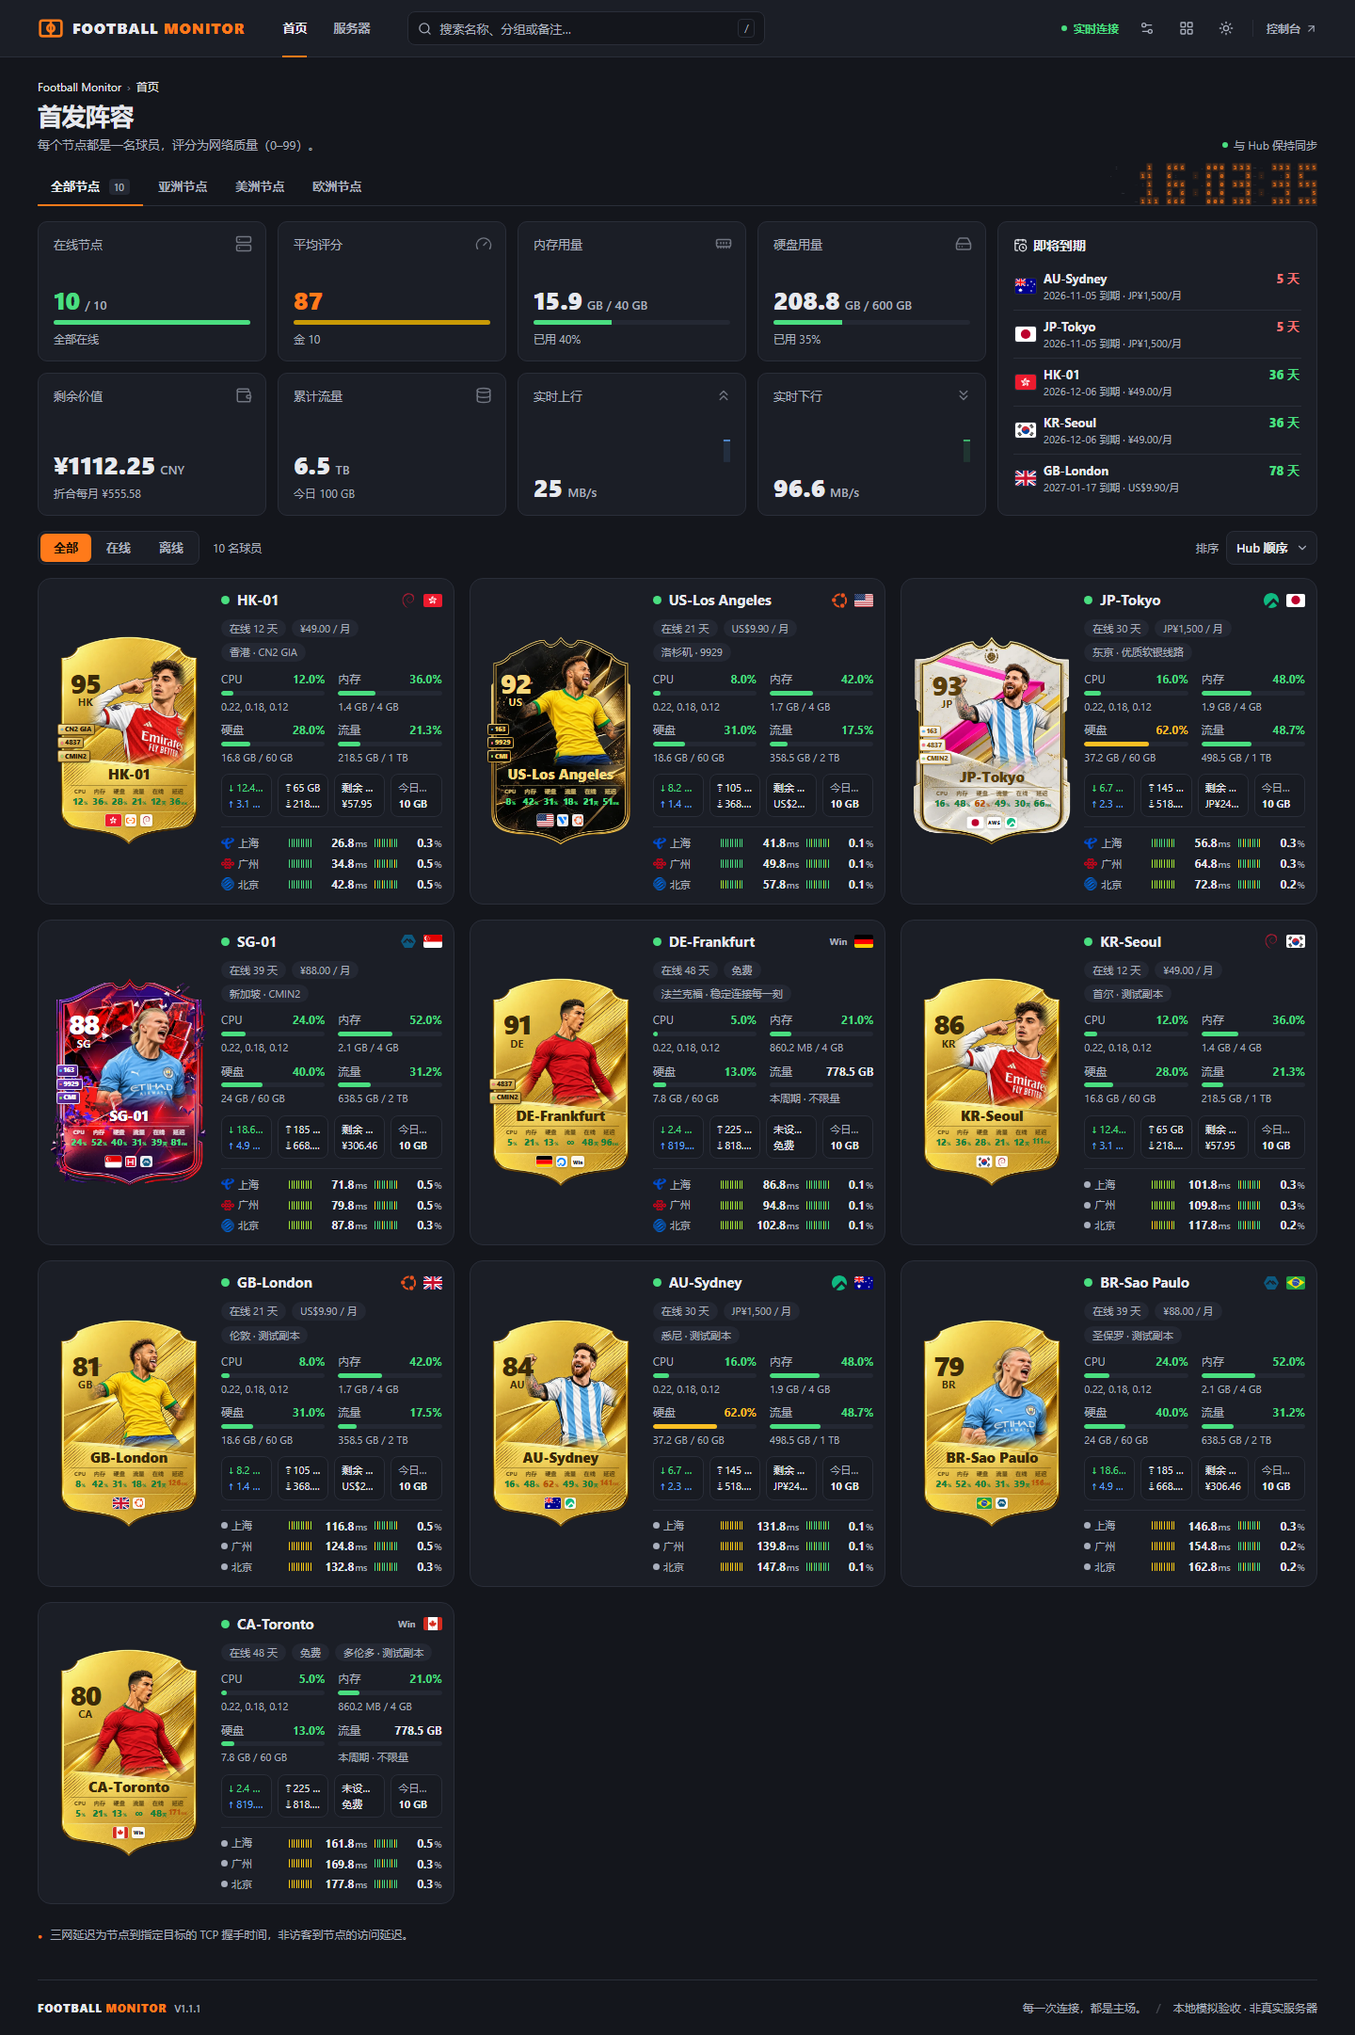
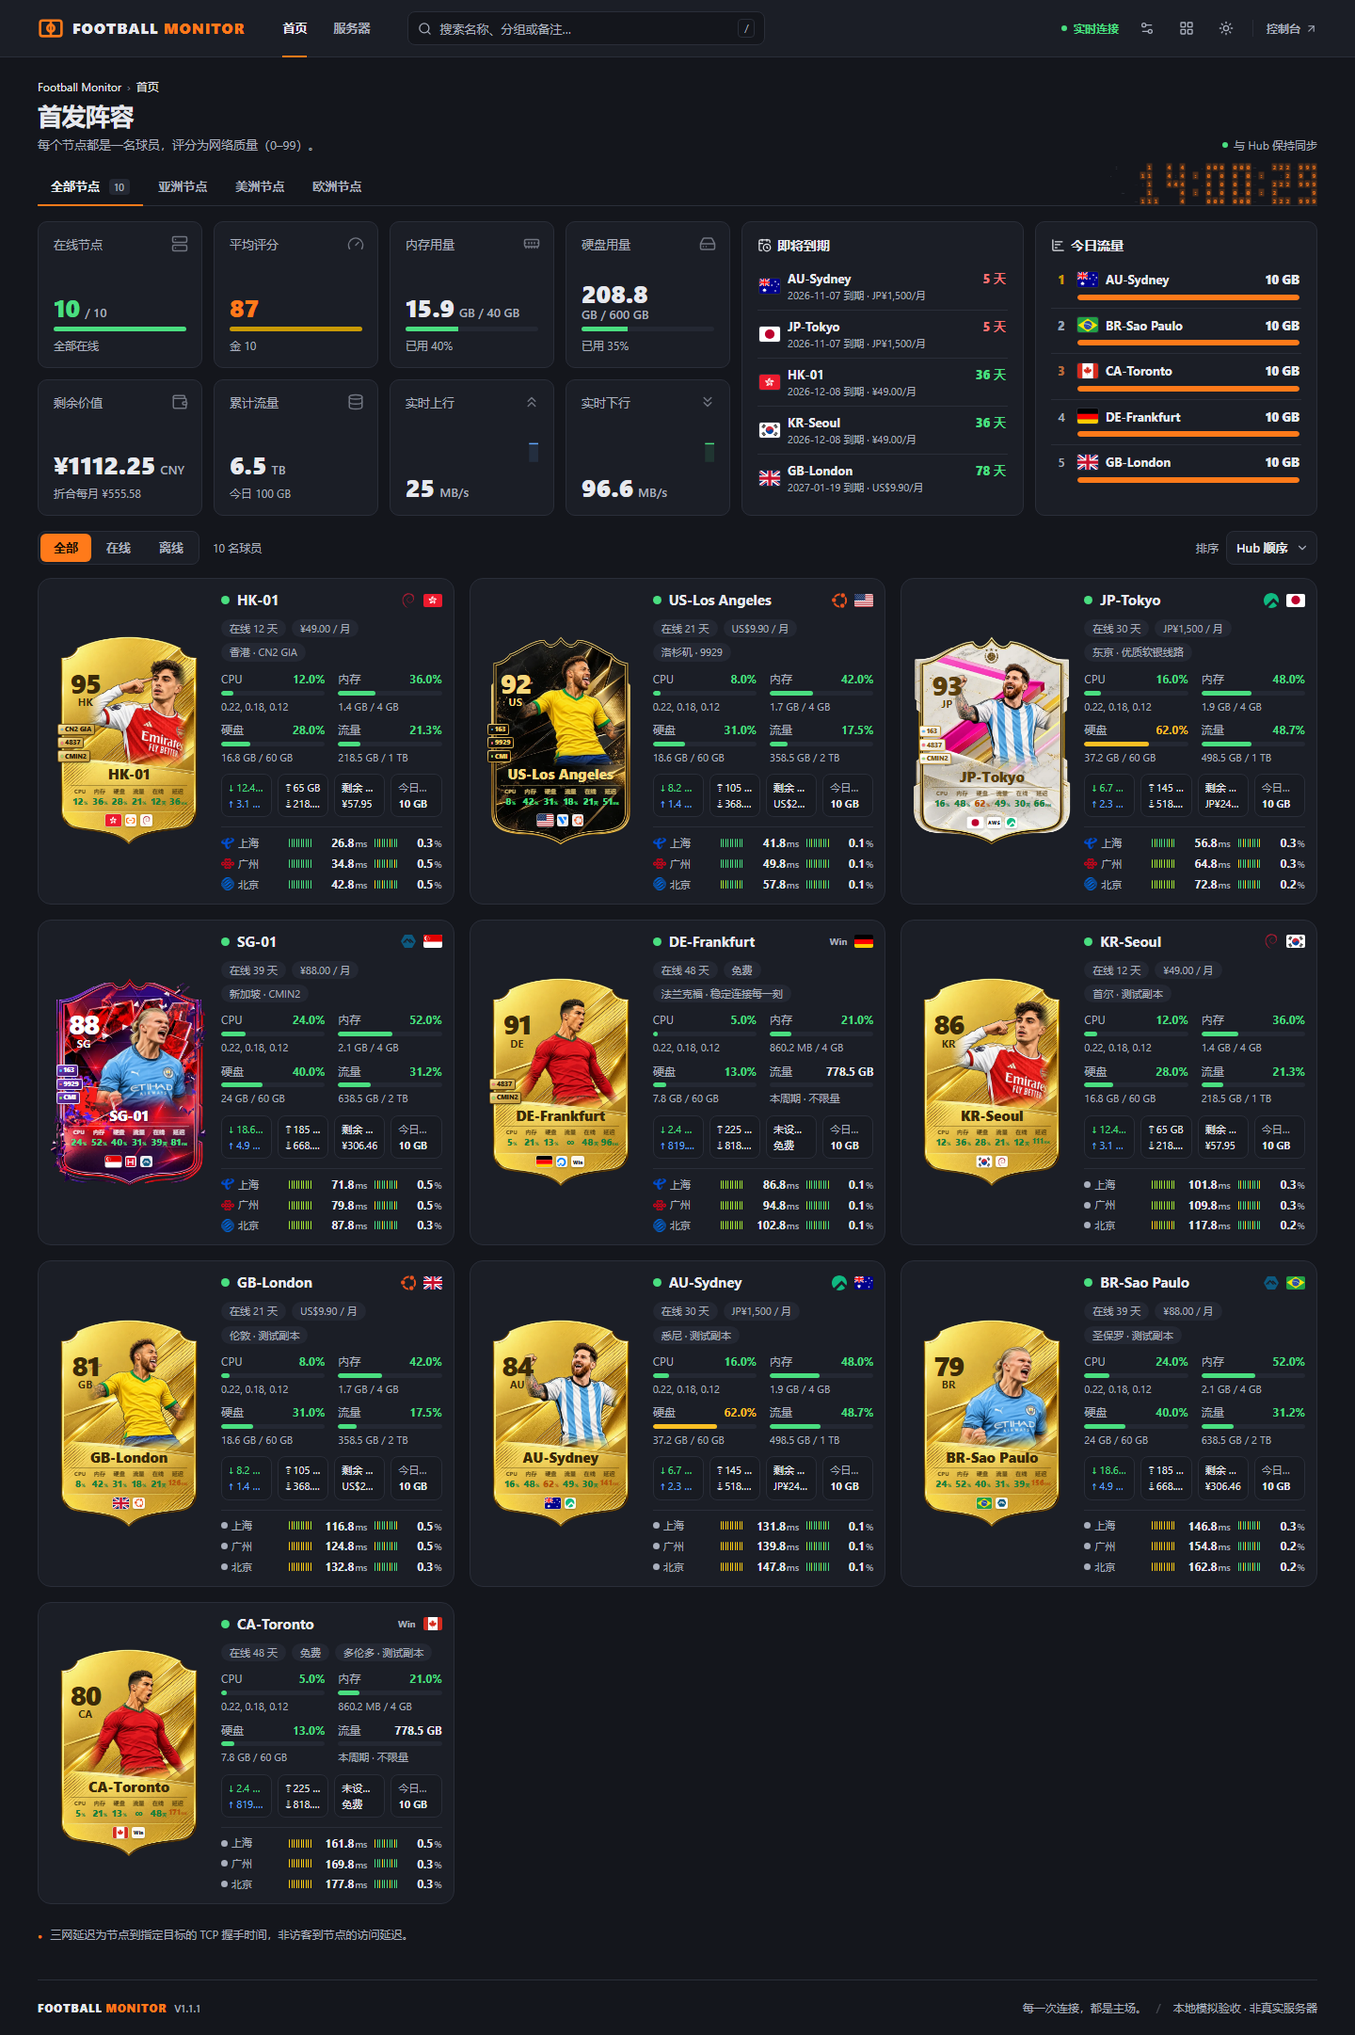
Add a today's traffic top-five board to the home overview
The board sits beside the expiry board, ranks nodes by today's download
plus upload, follows the group tab and hides with the traffic switch.
Below 1200px both boards move under the tiles; phones stack them.

diff --git a/src/style.css b/src/style.css
@@ -443,14 +443,18 @@ svg {
   white-space: nowrap;
 }
 
-/* Home page: overview tiles with the expiry board beside them, status filter + sort, dense grid. */
+/* Home page: overview tiles with the expiry and today's traffic boards beside them, status filter + sort,
+   dense grid. */
 .overview {
   display: grid;
   gap: 12px;
   margin-bottom: 16px;
 }
-.overview.with-board {
+.overview[data-boards='1'] {
   grid-template-columns: minmax(0, 1fr) minmax(280px, 340px);
+}
+.overview[data-boards='2'] {
+  grid-template-columns: minmax(0, 1fr) repeat(2, minmax(250px, 300px));
 }
 .summary-grid {
   display: grid;
@@ -506,10 +510,13 @@ svg {
   gap: 6px;
   min-width: 0;
 }
-.summary-bar {
+.summary-bar,
+.traffic-board {
   --tier-gold: #c99a06;
   --tier-silver: #94a3b8;
   --tier-bronze: #b4693a;
+}
+.summary-bar {
   display: flex;
   height: 5px;
   overflow: hidden;
@@ -580,13 +587,15 @@ svg {
 .summary-score {
   color: var(--primary-text);
 }
-.expiry-board {
+.expiry-board,
+.traffic-board {
   display: flex;
   flex-direction: column;
   min-width: 0;
   padding: 14px 16px;
 }
-.expiry-board h2 {
+.expiry-board h2,
+.traffic-board h2 {
   display: flex;
   align-items: center;
   gap: 6px;
@@ -594,12 +603,14 @@ svg {
   font-size: 14px;
   font-weight: 700;
 }
-.expiry-board ol {
+.expiry-board ol,
+.traffic-board ol {
   margin: 0;
   padding: 0;
   list-style: none;
 }
-.expiry-board li + li {
+.expiry-board li + li,
+.traffic-board li + li {
   border-top: 1px solid var(--border);
 }
 .expiry-row {
@@ -651,6 +662,71 @@ svg {
   font-size: 11px;
   text-overflow: ellipsis;
   white-space: nowrap;
+}
+.traffic-row {
+  display: grid;
+  grid-template-columns: 18px auto minmax(0, 1fr) auto;
+  align-items: center;
+  column-gap: 8px;
+  row-gap: 6px;
+  padding: 8px 2px;
+  color: inherit;
+  text-decoration: none;
+}
+.traffic-row:hover .expiry-name {
+  color: var(--primary-text);
+}
+.traffic-row .expiry-flag {
+  grid-row: auto;
+  grid-column: 2;
+}
+.traffic-row .expiry-name {
+  grid-column: 3;
+}
+/* The top three take the score tiers' colours. */
+.traffic-rank {
+  grid-column: 1;
+  grid-row: span 2;
+  align-self: start;
+  color: var(--muted);
+  font-size: 13px;
+  font-weight: 600;
+  font-variant-numeric: tabular-nums;
+  text-align: center;
+}
+.traffic-rank[data-rank='1'],
+.traffic-rank[data-rank='2'],
+.traffic-rank[data-rank='3'] {
+  font-weight: 800;
+}
+.traffic-rank[data-rank='1'] {
+  color: var(--tier-gold);
+}
+.traffic-rank[data-rank='2'] {
+  color: var(--tier-silver);
+}
+.traffic-rank[data-rank='3'] {
+  color: var(--tier-bronze);
+}
+.traffic-total {
+  grid-column: 4;
+  font-size: 13px;
+  font-weight: 800;
+  font-variant-numeric: tabular-nums;
+  white-space: nowrap;
+}
+.traffic-bar {
+  grid-column: 2 / -1;
+  height: 4px;
+  overflow: hidden;
+  border-radius: 999px;
+  background: var(--border);
+}
+.traffic-bar i {
+  display: block;
+  height: 100%;
+  border-radius: inherit;
+  background: var(--primary);
 }
 .expiry-empty {
   margin: auto 0;
@@ -1543,6 +1619,12 @@ svg {
   .header-inner {
     gap: 20px;
   }
+  .overview[data-boards='2'] {
+    grid-template-columns: repeat(2, minmax(0, 1fr));
+  }
+  .overview[data-boards='2'] .summary-grid {
+    grid-column: 1 / -1;
+  }
   /* Below 1200px the pill shows only its dot; the state text stays available to assistive technology. */
   .connection-pill > .connection-text {
     position: absolute;
@@ -1557,7 +1639,7 @@ svg {
   }
 }
 @media (max-width: 900px) {
-  .overview.with-board {
+  .overview[data-boards='1'] {
     grid-template-columns: minmax(0, 1fr);
   }
   .header-inner {
@@ -1602,6 +1684,9 @@ svg {
   }
 }
 @media (max-width: 639px) {
+  .overview[data-boards='2'] {
+    grid-template-columns: minmax(0, 1fr);
+  }
   .header-inner {
     flex-wrap: wrap;
     padding: 10px 18px;

diff --git a/src/views/DashboardView.vue b/src/views/DashboardView.vue
@@ -3,6 +3,7 @@ import { computed, ref, watch, type Component } from 'vue'
 import { RouterLink, useRoute, useRouter } from 'vue-router'
 import {
   CalendarClock,
+  ChartBarDecreasing,
   ChevronDown,
   ChevronsDown,
   ChevronsUp,
@@ -17,7 +18,7 @@ import {
 import { useMonitorStore } from '../stores/monitor'
 import { useCardView } from '../services/cardView'
 import { bytes, cycle, money, rate } from '../domain/format'
-import { expiringSoon, fleetSummary, parseRates } from '../domain/fleet'
+import { expiringSoon, fleetSummary, parseRates, todayTrafficTop } from '../domain/fleet'
 import { flagUrl } from '../domain/flags'
 import { nextTier, type Tier } from '../domain/score'
 import type { MonitorNode } from '../domain/types'
@@ -67,6 +68,8 @@ const summary = computed(() =>
   fleetSummary(grouped.value, parseRates(store.config.exchange_rates) ?? { CNY: 1 }),
 )
 const expiring = computed(() => expiringSoon(grouped.value))
+const trafficTop = computed(() => todayTrafficTop(grouped.value))
+const boards = computed(() => Number(store.config.show_billing) + Number(store.config.show_traffic))
 // "9.7 GB" -> ["9.7", "GB"]: big number, small unit.
 const split = (text: string) => {
   const i = text.lastIndexOf(' ')
@@ -245,11 +248,7 @@ const average = computed(() => {
     ><Button variant="outline" @click="store.bootstrap">重新检查</Button>
   </div>
   <template v-else>
-    <div
-      v-if="store.config.show_summary"
-      class="overview"
-      :class="{ 'with-board': store.config.show_billing }"
-    >
+    <div v-if="store.config.show_summary" class="overview" :data-boards="boards">
       <section class="summary-grid" aria-label="服务器汇总">
         <div v-for="t in tiles" :key="t.label" class="summary-stat panel">
           <span class="summary-stat-label">{{ t.label }}</span>
@@ -303,6 +302,32 @@ const average = computed(() => {
           </li>
         </ol>
         <p v-else class="expiry-empty">还没有设置到期日的节点</p>
+      </section>
+      <section v-if="store.config.show_traffic" class="traffic-board panel" aria-labelledby="traffic-title">
+        <h2 id="traffic-title"><ChartBarDecreasing :size="15" aria-hidden="true" />今日流量</h2>
+        <ol v-if="trafficTop.length">
+          <li v-for="(t, i) in trafficTop" :key="t.node.id">
+            <RouterLink
+              :to="`/node/${t.node.id}`"
+              class="traffic-row"
+              :title="`今日下行 ${bytes(t.node.day_rx)} · 今日上行 ${bytes(t.node.day_tx)}`"
+            >
+              <span class="traffic-rank" :data-rank="i + 1">{{ i + 1 }}</span>
+              <img
+                v-if="t.node.country && flagUrl(t.node.country)"
+                class="expiry-flag"
+                :src="flagUrl(t.node.country)"
+                alt=""
+              />
+              <span class="expiry-name">{{ t.node.name }}</span>
+              <span class="traffic-total">{{ bytes(t.total) }}</span>
+              <span class="traffic-bar" aria-hidden="true"
+                ><i :style="{ width: `${t.share * 100}%` }"
+              /></span>
+            </RouterLink>
+          </li>
+        </ol>
+        <p v-else class="expiry-empty">今天还没有节点产生流量</p>
       </section>
     </div>
     <section id="squad" class="squad-section" aria-label="节点列表">

diff --git a/tests/dashboard.test.ts b/tests/dashboard.test.ts
@@ -266,6 +266,41 @@ describe('dashboard', () => {
     wrapper.unmount()
   })
 
+  it('ranks today’s traffic in its own board beside the expiry board, following the group tab', async () => {
+    const { wrapper, store } = await mountDashboard()
+    const GB = 1024 ** 3
+    const board = () => wrapper.find('.traffic-board')
+    expect(wrapper.find('.overview').attributes('data-boards')).toBe('2')
+    expect(board().find('.expiry-empty').text()).toBe('今天还没有节点产生流量')
+    const day: Record<number, [number, number]> = { 1: [1 * GB, 1 * GB], 2: [3 * GB, 1 * GB], 4: [0, 512] }
+    store.nodes = fixtures().map((n) => ({ ...n, day_rx: day[n.id]?.[0] ?? 0, day_tx: day[n.id]?.[1] ?? 0 }))
+    await flushPromises()
+    const rows = board().findAll('li')
+    expect(rows.map((r) => r.find('.expiry-name').text())).toEqual(['东京 B', '香港 A', '法兰克福 D'])
+    expect(rows.map((r) => r.find('.traffic-total').text())).toEqual(['4 GB', '2 GB', '512 B'])
+    expect(rows.map((r) => r.find('.traffic-rank').text())).toEqual(['1', '2', '3'])
+    expect(rows[1]!.find('.traffic-bar i').attributes('style')).toContain('width: 50%')
+    expect(rows[0]!.find('a').attributes('href')).toBe('/node/2')
+    expect(rows[0]!.find('a').attributes('title')).toBe('今日下行 3 GB · 今日上行 1 GB')
+    await wrapper
+      .findAll('.group-tabs button')
+      .find((b) => b.text() === '欧洲节点')!
+      .trigger('click')
+    expect(
+      board()
+        .findAll('.expiry-name')
+        .map((n) => n.text()),
+    ).toEqual(['法兰克福 D'])
+    store.config = { ...store.config, show_billing: false }
+    await flushPromises()
+    expect(wrapper.find('.overview').attributes('data-boards')).toBe('1')
+    store.config = { ...store.config, show_traffic: false }
+    await flushPromises()
+    expect(board().exists()).toBe(false)
+    expect(wrapper.find('.overview').attributes('data-boards')).toBe('0')
+    wrapper.unmount()
+  })
+
   it('shows the local time as a character clock beside the heading unless the clock is switched off', async () => {
     const { wrapper, store } = await mountDashboard()
     const clock = wrapper.find('.page-head-aside .ascii-clock')

diff --git a/tests/fleet.test.ts b/tests/fleet.test.ts
@@ -1,6 +1,13 @@
 import { describe, expect, it } from 'vitest'
 import { normalizeNodes } from '../src/domain/normalize'
-import { DEFAULT_RATES, expiringSoon, fleetSummary, parseRates, remainingValue } from '../src/domain/fleet'
+import {
+  DEFAULT_RATES,
+  expiringSoon,
+  fleetSummary,
+  parseRates,
+  remainingValue,
+  todayTrafficTop,
+} from '../src/domain/fleet'
 
 const GB = 1024 ** 3
 function node(id: number, spec: Record<string, unknown> = {}, metrics: Record<string, number> | null = {}) {
@@ -159,5 +166,28 @@ describe('expiring soon', () => {
       [1, 35],
     ])
     expect(expiringSoon([node(1, { expires_in: undefined })])[0]!.days).toBeNull()
+  })
+})
+
+describe('today traffic top', () => {
+  it('ranks nodes by today’s traffic both ways, skipping idle ones, with shares of the busiest', () => {
+    const list = todayTrafficTop([
+      node(1, { day_rx: 2 * GB, day_tx: 0 }),
+      node(2, { day_rx: 3 * GB, day_tx: 1 * GB }),
+      node(3, { day_rx: 0, day_tx: 0 }),
+      node(4, { day_rx: 1 * GB, day_tx: 1 * GB }, null),
+      node(5, { day_rx: 0, day_tx: 1 * GB }),
+      node(6, { day_rx: 0, day_tx: 3 * GB }),
+      node(7, { day_rx: 512, day_tx: 0 }),
+    ])
+    // Ties go by name; offline nodes keep their Hub-booked figure; the sixth busiest is cut.
+    expect(list.map((e) => [e.node.id, e.total / GB, e.share])).toEqual([
+      [2, 4, 1],
+      [6, 3, 0.75],
+      [1, 2, 0.5],
+      [4, 2, 0.5],
+      [5, 1, 0.25],
+    ])
+    expect(todayTrafficTop([node(1, { day_rx: 0, day_tx: 0 })])).toEqual([])
   })
 })

diff --git a/e2e/theme.spec.ts b/e2e/theme.spec.ts
@@ -101,9 +101,18 @@ test('dashboard renders all six skins and fits desktop, tablet, mobile and 320px
   await expect(page.getByRole('searchbox', { name: '搜索服务器' })).toBeFocused()
   await page.getByRole('searchbox', { name: '搜索服务器' }).blur()
   expect(await firstRowCount(page)).toBe(7)
+  // Today's traffic top five sits beside the expiry board on desktop, both under the tiles below 1200px.
+  await expect(page.locator('.traffic-board li')).toHaveCount(5)
+  const boardTops = () =>
+    page
+      .locator('.expiry-board, .traffic-board')
+      .evaluateAll((els) => els.map((e) => e.getBoundingClientRect().top))
   for (const width of [1440, 768, 390, 320]) {
     await page.setViewportSize({ width, height: width === 1440 ? 1080 : 900 })
     if (width <= 390) expect(await firstRowCount(page)).toBe(2)
+    const [expiryTop, trafficTop] = await boardTops()
+    if (width > 390) expect(trafficTop).toBe(expiryTop)
+    else expect(trafficTop).toBeGreaterThan(expiryTop!)
     await page.screenshot({ path: `${shots}/dashboard-${width}.png`, fullPage: true })
     expect(await noHorizontalOverflow(page)).toBe(true)
   }

diff --git a/src/domain/fleet.ts b/src/domain/fleet.ts
@@ -118,3 +118,14 @@ export function expiringSoon(nodes: MonitorNode[], limit = 5) {
     .slice(0, limit)
     .map((node) => ({ node, days: node.expires_in ?? null }))
 }
+
+/** Nodes that moved traffic today, busiest first, each with its share of the busiest one for the bar. */
+export function todayTrafficTop(nodes: MonitorNode[], limit = 5) {
+  const ranked = nodes
+    .map((node) => ({ node, total: node.day_rx + node.day_tx }))
+    .filter((e) => e.total > 0)
+    .sort((a, b) => b.total - a.total || a.node.name.localeCompare(b.node.name, 'zh-CN'))
+    .slice(0, limit)
+  const top = ranked[0]?.total ?? 0
+  return ranked.map((e) => ({ ...e, share: e.total / top }))
+}

diff --git a/docs/manual.md b/docs/manual.md
@@ -14,7 +14,7 @@
 - CPU / 内存 / 磁盘、上下行速率、周期配额、累计流量、系统 Uptime、费用与到期状态。
 - 全局默认卡面、单节点覆盖、继承与恢复默认；按稳定节点 ID 保存，重命名不丢失。
 - 首页标题区右下角的字符时钟（3×5 点阵，立在分组标签下的分隔线上）：按 ascii-pond 的画法，用等宽字符格子拼出访客本地时间，秒数变化与鼠标划过时泛起字符水波；全局设置“首页时钟”可关闭，与分组标签放不下时自动隐藏，关闭动效或系统减少动态效果时只每秒刷新。
-- 搜索、分组筛选和随分组变化的汇总；沿用 Hub 返回的节点与分组顺序。首页汇总为 8 张卡片：在线节点、平均评分、内存用量、硬盘用量、剩余价值、累计流量、实时上行、实时下行；右侧“即将到期”排行按到期日列出前 5 台（≤7 天红、≤30 天黄，已过期排最前），点击进入详情。剩余价值 = 续费价 × Hub 给出的剩余天数 ÷ 周期天数，按设置里的“汇率（折合人民币）”换算后合计（内置参考汇率，可修改；缺到期日或汇率的付费节点不计入并提示台数）。关闭“显示费用”时隐藏剩余价值与到期排行。
+- 搜索、分组筛选和随分组变化的汇总；沿用 Hub 返回的节点与分组顺序。首页汇总为 8 张卡片：在线节点、平均评分、内存用量、硬盘用量、剩余价值、累计流量、实时上行、实时下行；右侧“即将到期”排行按到期日列出前 5 台（≤7 天红、≤30 天黄，已过期排最前），点击进入详情；再右侧“今日流量”排行按今日下行 + 上行列出前 5 台（没有流量的不列，前三名名次用金 / 银 / 铜色，细条按第一名的比例画，悬停看上下行，离线节点保留 Hub 记账的当日数据），点击进入详情。两块排行都随分组变化；1200px 以下两块并排放到 8 张卡片下面，手机上上下排列。剩余价值 = 续费价 × Hub 给出的剩余天数 ÷ 周期天数，按设置里的“汇率（折合人民币）”换算后合计（内置参考汇率，可修改；缺到期日或汇率的付费节点不计入并提示台数）。关闭“显示费用”时隐藏剩余价值与到期排行，关闭“显示流量”时隐藏今日流量排行。
 - 节点详情、保留期驱动的历史范围、轻量 SVG 资源/网络/TCP 延迟曲线和可读数据表。
 - 原生 WebSocket，gzip / 文本帧顺序解码、断线 HTTP 轮询、有限重连、隐藏页面暂停与恢复。
 - 站长可视化设置，官方 Hub 配置 GET / 合并 / PUT / 读回校验；64 KiB 限制和损坏/未来版本保护。

diff --git a/README.md b/README.md
@@ -14,7 +14,7 @@
 - 📡 **三网延迟与丢包**：卡下实时条显示上下行速率、三个测速点延迟，以及延迟 / 丢包色块条。
 - ⚡ **实时推送**：原生 WebSocket，支持 gzip 解码、断线轮询与自动重连，页面隐藏时暂停。
 - 🪪 **两种首页形式**：上下（卡面 + 卡下实时条）或左右（卡面 + 右侧数据面板，含资源进度条、流量与费用、三网逐点延迟丢包），站长设默认，访客可在顶栏切换。
-- 📊 **首页汇总**：在线节点、平均评分、内存/硬盘用量、剩余价值、累计流量、实时上下行，以及即将到期排行。
+- 📊 **首页汇总**：在线节点、平均评分、内存/硬盘用量、剩余价值、累计流量、实时上下行，以及即将到期和今日流量前五两个排行。
 - 🧑 **球员资料页**：节点详情含大卡、分区导航、评分明细、历史曲线与系统信息。
 - 🖼 **自定义立绘**：内置 5 张默认立绘，也可裁切、缩放并导出 WebP 后绑定自己的 HTTPS 图片。
 - ⚙ **可视化设置**：站长登录后在页面内调整卡面、布局、外观，支持单节点覆盖，保存后读回校验。
